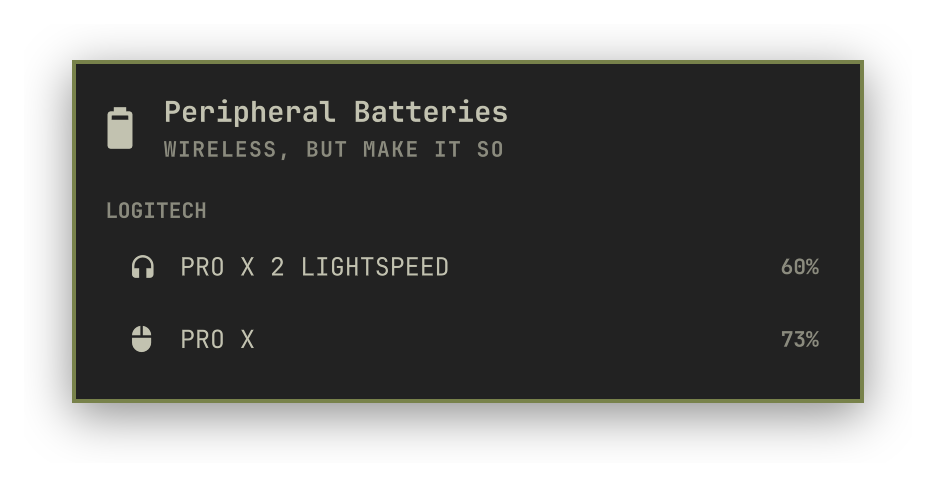
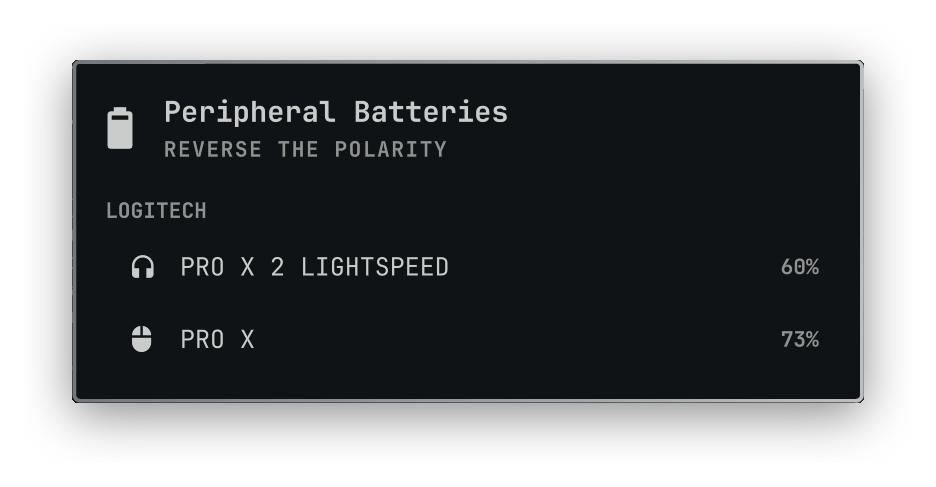
docs: reshoot the preview and size it 2:1 for crisp text

diff --git a/README.md b/README.md
@@ -6,7 +6,7 @@ desktop notification. It reads `/sys` through a small Python helper, so there is
 no daemon and no dependencies beyond the Python 3 already on the system.
 
 <p align="center">
-  <img src="preview.png" width="520"
+  <img src="preview.png" width="468"
        alt="The Peripheral Batteries panel open in the Omarchy bar, listing a Logitech mouse and headset with their battery percentages under a LOGITECH header">
 </p>
 
